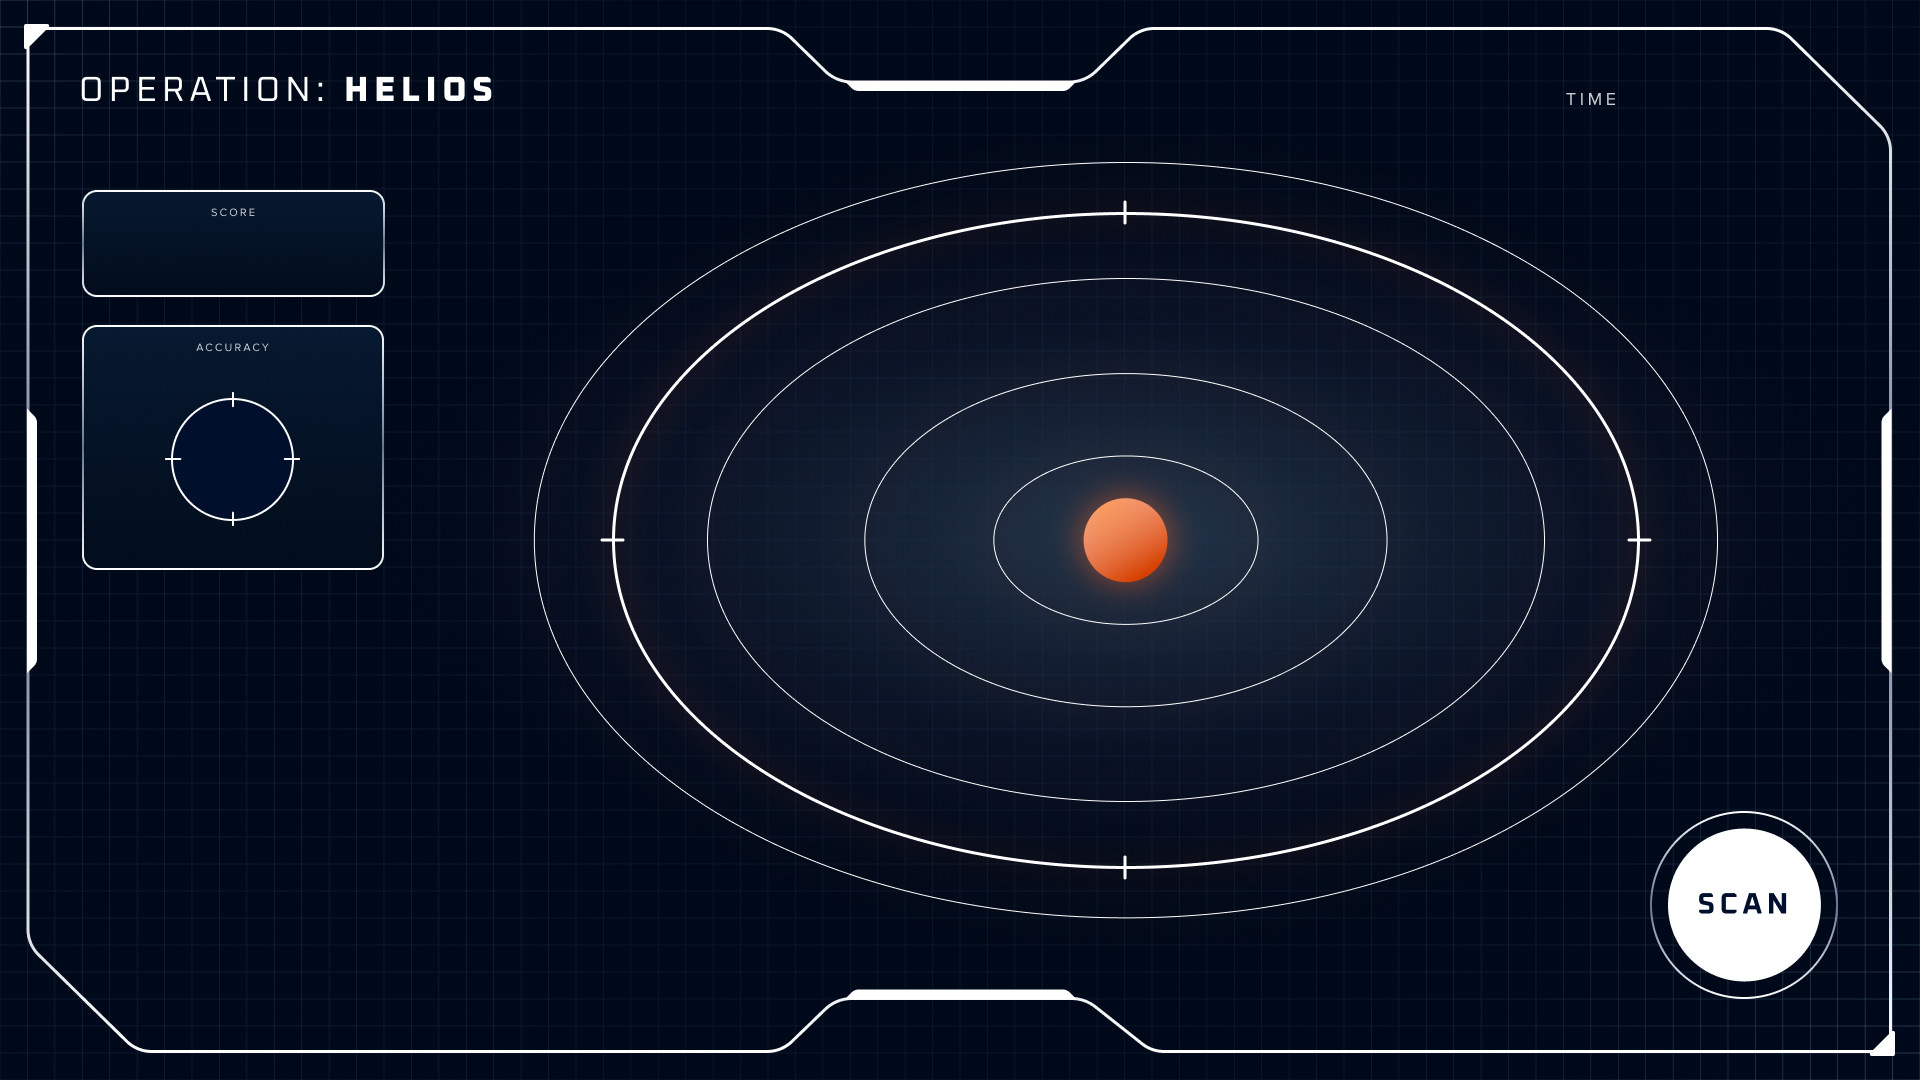
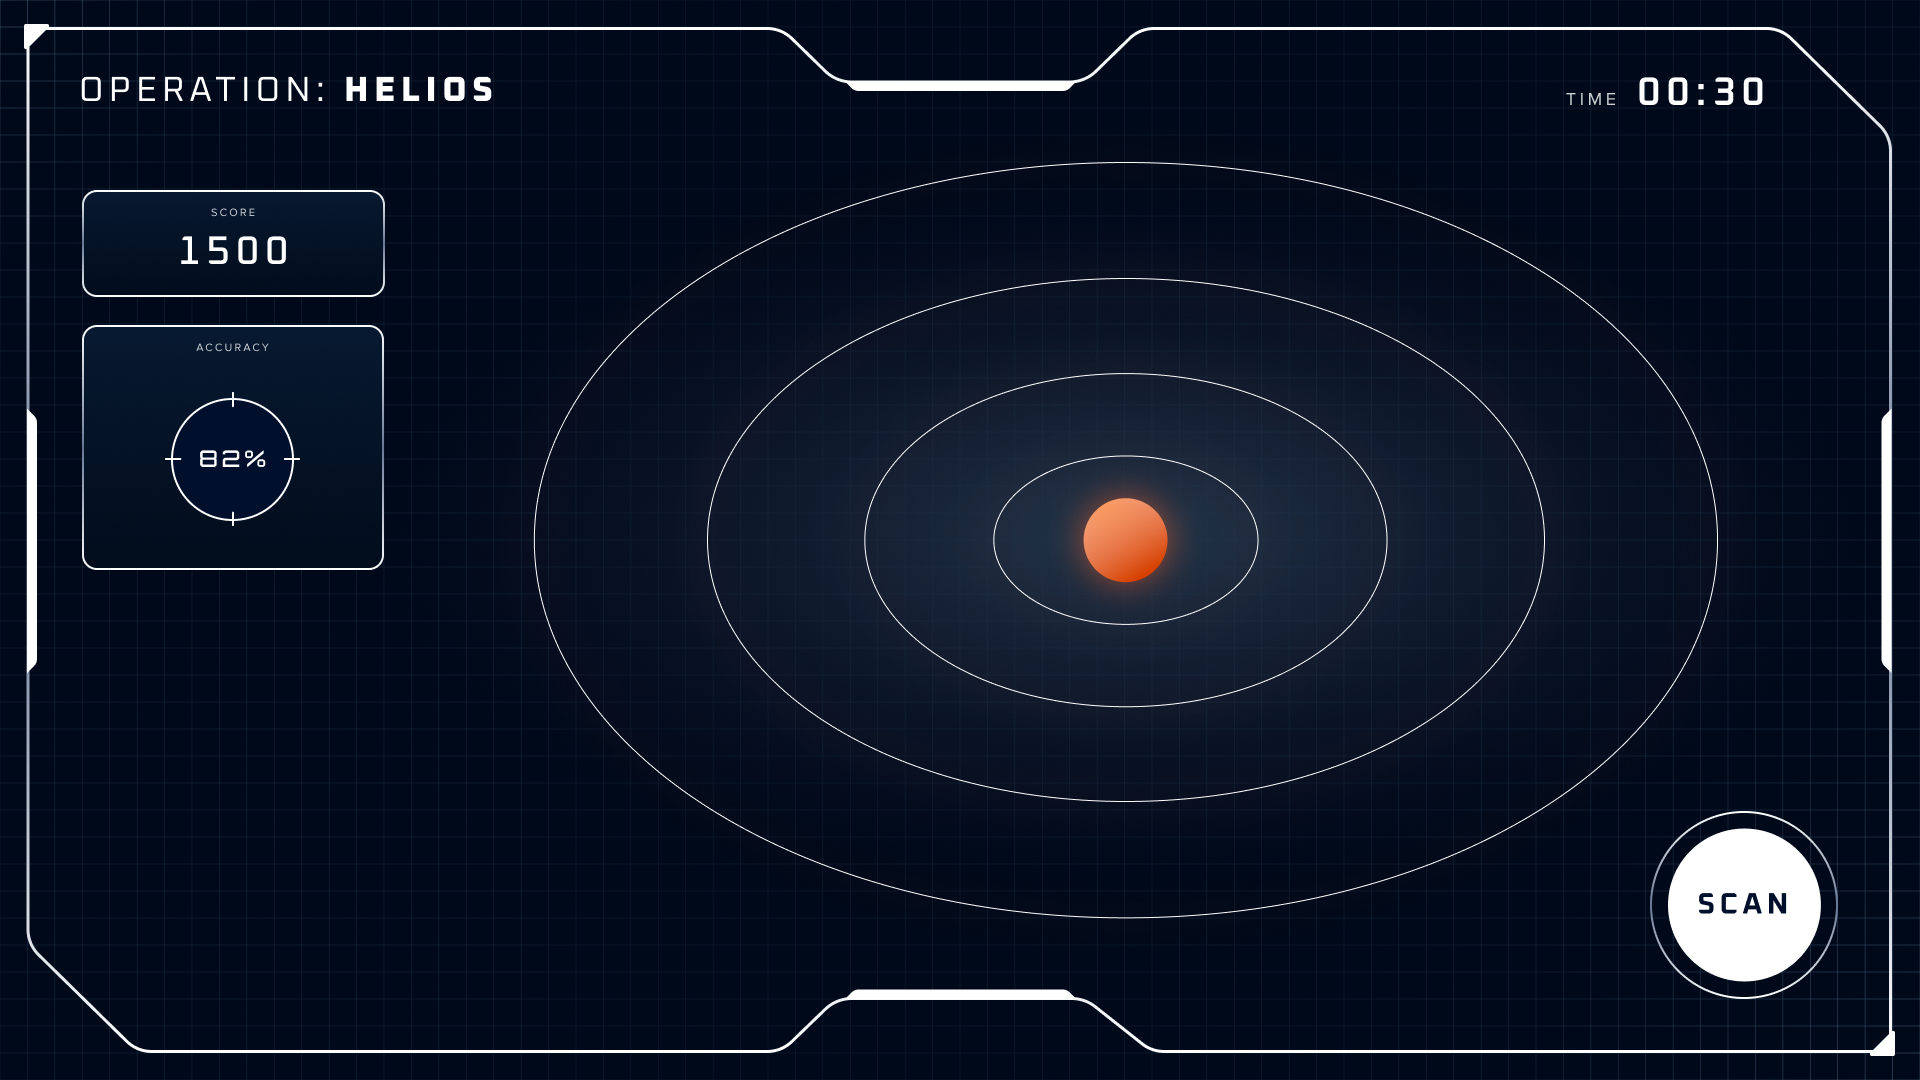
Updated Crosshair visuals

diff --git a/src.js b/src.js
@@ -15,10 +15,19 @@ const player = {
 const drawOvalShape = (ctx, center_x, center_y, radiusX, radiusY, color) =>{
     ctx.beginPath();
     ctx.strokeStyle = color;
+    ctx.lineWidth = 2;
     ctx.ellipse(center_x, center_y, radiusX, radiusY,  90 * Math.PI/180, 0, 2 * Math.PI);
-
     ctx.stroke();
     ctx.closePath();
+}
+
+const drawRectShape = (ctx, x, y, width, height, color) => {
+    ctx.beginPath();
+    ctx.strokeColor = color;
+    ctx.lineWidth = 2;
+    ctx.rect(x, y, width, height);
+    ctx.stroke();
+    ctx.closePath()
 }
 
 // updates the line movement
@@ -37,14 +46,12 @@ const Update = () => {
 const Draw = () => {
     ctx.clearRect(0,0,1400,800);
 
-    drawOvalShape(ctx, CENTER_X, CENTER_Y, player.radiusX, player.radiusY, "green");
+    drawOvalShape(ctx, CENTER_X, CENTER_Y, player.radiusX, player.radiusY, "white");
+    drawRectShape(ctx, CENTER_X - player.radiusY - 7, CENTER_Y, 15, 1);
+    drawRectShape(ctx, CENTER_X + player.radiusY - 7, CENTER_Y, 15, 1);
 
-
-    // drawOvalShape(ctx, CENTER_X, CENTER_Y, 250, 250, "blue");
-    // drawOvalShape(ctx, CENTER_X, CENTER_Y, 200, 200, "blue");
-    // drawOvalShape(ctx, CENTER_X, CENTER_Y, 150, 150, "green");
-    // drawOvalShape(ctx, CENTER_X, CENTER_Y, 100, 100, "red");
-    // drawOvalShape(ctx, CENTER_X, CENTER_Y, 50, 50, "red");
+    drawRectShape(ctx, CENTER_X, CENTER_Y - player.radiusX - 7, 1, 15);
+    drawRectShape(ctx, CENTER_X, CENTER_Y + player.radiusX - 7 , 1, 15);
  }
 
 
